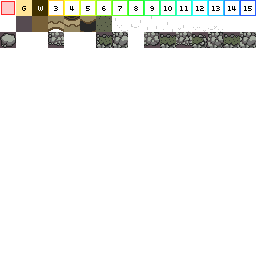
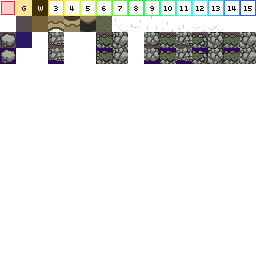
Swap textures depending on water level.

diff --git a/src/game_layer.go b/src/game_layer.go
@@ -97,6 +97,12 @@ func (l *GameLayer) Render() {
 			fallthrough
 		case i == l.Level.Active-1:
 			y = l.Level.GetLayerY(i)
+			switch l.Level.GetLayerWaterStatus(i) {
+			case Dry:
+				l.Level.Geometry[i].SetTextureOffsetPx(0, 0)
+			case Wet:
+				l.Level.Geometry[i].SetTextureOffsetPx(0, -16)
+			}
 			l.BatchRenderer.Draw(l.Level.Geometry[i], 0, y, 0)
 		}
 		if i == l.Level.Active {
